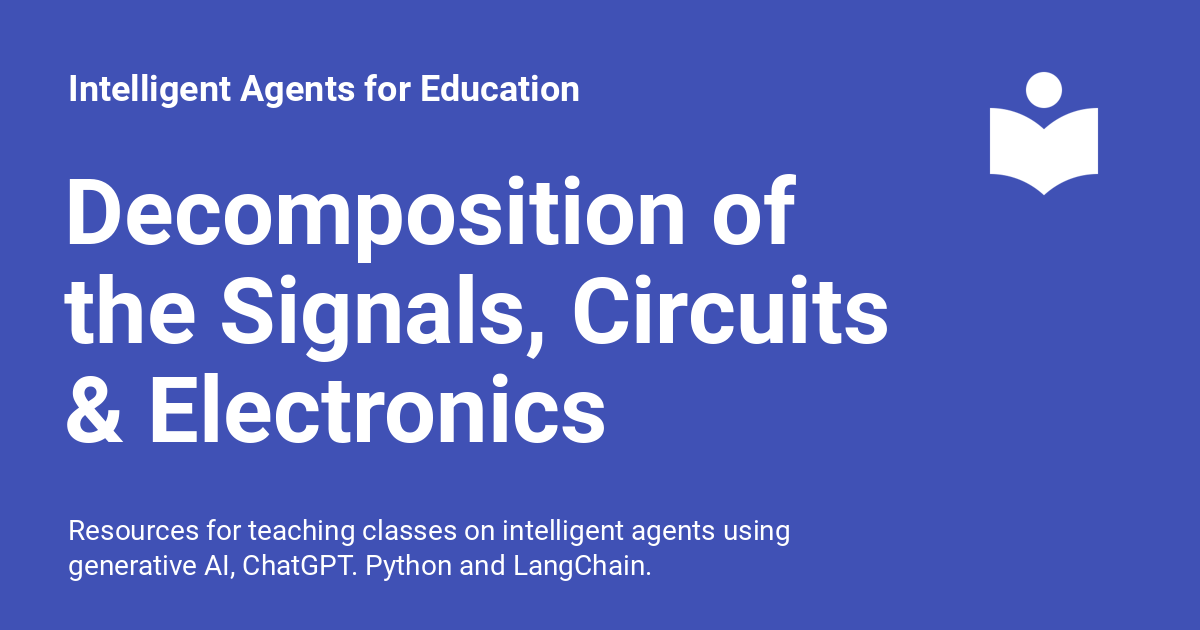
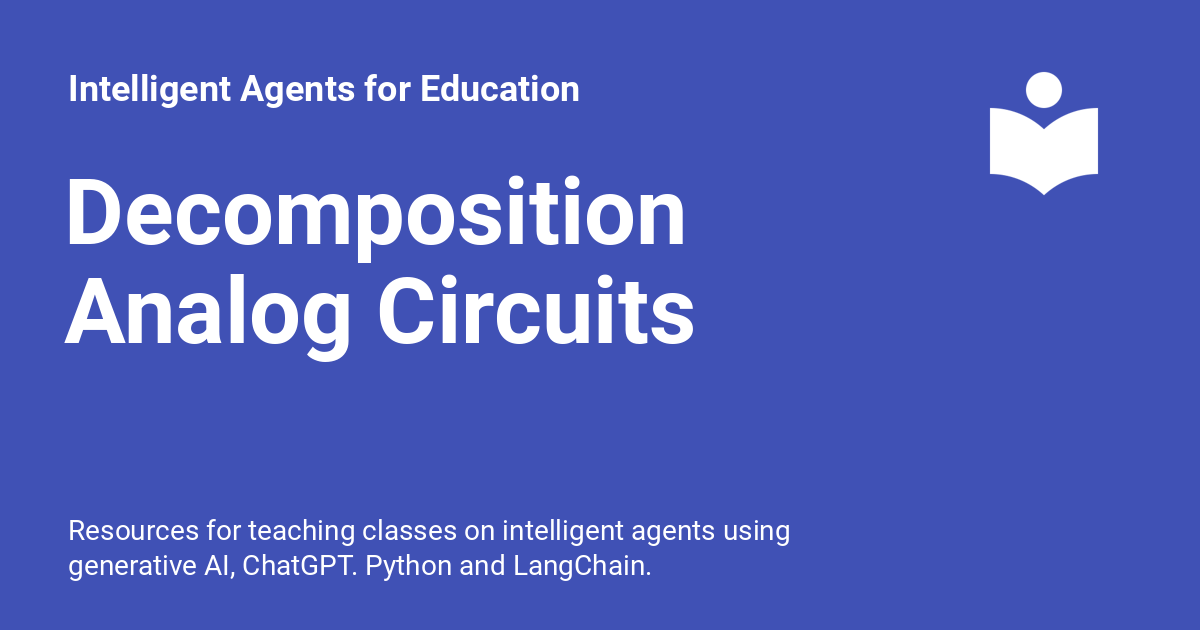
Deployed 2ec733f with MkDocs version: 1.5.3

Changed region(s): [[0.0308, 0.4222, 0.74, 0.573], [0.0308, 0.573, 0.5242, 0.7238], [0.5858, 0.2714, 0.6783, 0.3921]]

diff --git a/assignments/02a-decomposition-analog/index.html b/assignments/02a-decomposition-analog/index.html
@@ -15,6 +15,10 @@
         <link rel="canonical" href="https://dmccreary.github.io/learn-langchain/assignments/02a-decomposition-analog/">
       
       
+        <link rel="prev" href="../02-decomposition/">
+      
+      
+        <link rel="next" href="../../lessons/">
       
       
       <link rel="icon" href="../../assets/images/favicon.png">
@@ -22,7 +26,7 @@
     
     
       
-        <title>Decomposition of the Signals, Circuits & Electronics Course - Intelligent Agents for Education</title>
+        <title>Decomposition Analog Circuits - Intelligent Agents for Education</title>
       
     
     
@@ -64,7 +68,7 @@
       
         <meta  property="og:type"  content="website" >
       
-        <meta  property="og:title"  content="Decomposition of the Signals, Circuits & Electronics Course - Intelligent Agents for Education" >
+        <meta  property="og:title"  content="Decomposition Analog Circuits - Intelligent Agents for Education" >
       
         <meta  property="og:description"  content="Resources for teaching classes on intelligent agents using generative AI, ChatGPT. Python and LangChain." >
       
@@ -80,7 +84,7 @@
       
         <meta  name="twitter:card"  content="summary_large_image" >
       
-        <meta  name="twitter:title"  content="Decomposition of the Signals, Circuits & Electronics Course - Intelligent Agents for Education" >
+        <meta  name="twitter:title"  content="Decomposition Analog Circuits - Intelligent Agents for Education" >
       
         <meta  name="twitter:description"  content="Resources for teaching classes on intelligent agents using generative AI, ChatGPT. Python and LangChain." >
       
@@ -139,7 +143,7 @@
         <div class="md-header__topic" data-md-component="header-topic">
           <span class="md-ellipsis">
             
-              Decomposition of the Signals, Circuits & Electronics Course
+              Decomposition Analog Circuits
             
           </span>
         </div>
@@ -339,6 +343,8 @@
       
   
   
+    
+  
   
     
     
@@ -355,28 +361,165 @@
       
     
     
-      
-      
-    
-    <li class="md-nav__item md-nav__item--pruned md-nav__item--nested">
+    <li class="md-nav__item md-nav__item--active md-nav__item--nested">
       
         
-  
-  
-    <a href="../" class="md-nav__link">
-      
+        
+        
+        
+        <input class="md-nav__toggle md-toggle " type="checkbox" id="__nav_4" checked>
+        
+          
+          
+          <div class="md-nav__link md-nav__container">
+            <a href="../" class="md-nav__link ">
+              
   
   <span class="md-ellipsis">
     Assignments
   </span>
   
 
-      
-        <span class="md-nav__icon md-icon"></span>
-      
-    </a>
+            </a>
+            
+              <label class="md-nav__link " for="__nav_4">
+                <span class="md-nav__icon md-icon"></span>
+              </label>
+            
+          </div>
+        
+        <nav class="md-nav" data-md-level="1" aria-labelledby="__nav_4_label" aria-expanded="true">
+          <label class="md-nav__title" for="__nav_4">
+            <span class="md-nav__icon md-icon"></span>
+            Assignments
+          </label>
+          <ul class="md-nav__list" data-md-scrollfix>
+            
+              
+            
+              
+                
+  
+  
+  
+    <li class="md-nav__item">
+      <a href="../01-bouncing-ball/" class="md-nav__link">
+        
+  
+  <span class="md-ellipsis">
+    Bouncing Ball
+  </span>
   
 
+      </a>
+    </li>
+  
+
+              
+            
+              
+                
+  
+  
+  
+    <li class="md-nav__item">
+      <a href="../02-decomposition/" class="md-nav__link">
+        
+  
+  <span class="md-ellipsis">
+    Decomposition
+  </span>
+  
+
+      </a>
+    </li>
+  
+
+              
+            
+              
+                
+  
+  
+    
+  
+  
+    <li class="md-nav__item md-nav__item--active">
+      
+      <input class="md-nav__toggle md-toggle" type="checkbox" id="__toc">
+      
+      
+        
+      
+      
+        <label class="md-nav__link md-nav__link--active" for="__toc">
+          
+  
+  <span class="md-ellipsis">
+    Decomposition Analog Circuits
+  </span>
+  
+
+          <span class="md-nav__icon md-icon"></span>
+        </label>
+      
+      <a href="./" class="md-nav__link md-nav__link--active">
+        
+  
+  <span class="md-ellipsis">
+    Decomposition Analog Circuits
+  </span>
+  
+
+      </a>
+      
+        
+
+<nav class="md-nav md-nav--secondary" aria-label="Table of contents">
+  
+  
+  
+    
+  
+  
+    <label class="md-nav__title" for="__toc">
+      <span class="md-nav__icon md-icon"></span>
+      Table of contents
+    </label>
+    <ul class="md-nav__list" data-md-component="toc" data-md-scrollfix>
+      
+        <li class="md-nav__item">
+  <a href="#sample-prompt" class="md-nav__link">
+    Sample Prompt
+  </a>
+  
+</li>
+      
+        <li class="md-nav__item">
+  <a href="#response" class="md-nav__link">
+    Response
+  </a>
+  
+</li>
+      
+        <li class="md-nav__item">
+  <a href="#simulation" class="md-nav__link">
+    Simulation
+  </a>
+  
+</li>
+      
+    </ul>
+  
+</nav>
+      
+    </li>
+  
+
+              
+            
+          </ul>
+        </nav>
       
     </li>
   
@@ -755,6 +898,44 @@ interactive simulation to explain the concept.</p>
       
         <footer class="md-footer">
   
+    
+      
+      <nav class="md-footer__inner md-grid" aria-label="Footer" >
+        
+          
+          <a href="../02-decomposition/" class="md-footer__link md-footer__link--prev" aria-label="Previous: Decomposition" rel="prev">
+            <div class="md-footer__button md-icon">
+              
+              <svg xmlns="http://www.w3.org/2000/svg" viewBox="0 0 24 24"><path d="M20 11v2H8l5.5 5.5-1.42 1.42L4.16 12l7.92-7.92L13.5 5.5 8 11h12Z"/></svg>
+            </div>
+            <div class="md-footer__title">
+              <span class="md-footer__direction">
+                Previous
+              </span>
+              <div class="md-ellipsis">
+                Decomposition
+              </div>
+            </div>
+          </a>
+        
+        
+          
+          <a href="../../lessons/" class="md-footer__link md-footer__link--next" aria-label="Next: Introduction" rel="next">
+            <div class="md-footer__title">
+              <span class="md-footer__direction">
+                Next
+              </span>
+              <div class="md-ellipsis">
+                Introduction
+              </div>
+            </div>
+            <div class="md-footer__button md-icon">
+              
+              <svg xmlns="http://www.w3.org/2000/svg" viewBox="0 0 24 24"><path d="M4 11v2h12l-5.5 5.5 1.42 1.42L19.84 12l-7.92-7.92L10.5 5.5 16 11H4Z"/></svg>
+            </div>
+          </a>
+        
+      </nav>
     
   
   <div class="md-footer-meta md-typeset">

diff --git a/assignments/02-decomposition/index.html b/assignments/02-decomposition/index.html
@@ -18,7 +18,7 @@
         <link rel="prev" href="../01-bouncing-ball/">
       
       
-        <link rel="next" href="../../lessons/">
+        <link rel="next" href="../02a-decomposition-analog/">
       
       
       <link rel="icon" href="../../assets/images/favicon.png">
@@ -524,7 +524,7 @@
   
   
     <li class="md-nav__item">
-      <a href="../02a-decomposition-analog" class="md-nav__link">
+      <a href="../02a-decomposition-analog/" class="md-nav__link">
         
   
   <span class="md-ellipsis">
@@ -992,13 +992,13 @@ prepared to demo the program using the p5.js editor.</p>
         
         
           
-          <a href="../../lessons/" class="md-footer__link md-footer__link--next" aria-label="Next: Introduction" rel="next">
+          <a href="../02a-decomposition-analog/" class="md-footer__link md-footer__link--next" aria-label="Next: Decomposition Analog Circuits" rel="next">
             <div class="md-footer__title">
               <span class="md-footer__direction">
                 Next
               </span>
               <div class="md-ellipsis">
-                Introduction
+                Decomposition Analog Circuits
               </div>
             </div>
             <div class="md-footer__button md-icon">

diff --git a/lessons/index.html b/lessons/index.html
@@ -15,7 +15,7 @@
         <link rel="canonical" href="https://dmccreary.github.io/learn-langchain/lessons/">
       
       
-        <link rel="prev" href="../assignments/02-decomposition/">
+        <link rel="prev" href="../assignments/02a-decomposition-analog/">
       
       
         <link rel="next" href="01-hello-world/">
@@ -777,7 +777,7 @@
       <nav class="md-footer__inner md-grid" aria-label="Footer" >
         
           
-          <a href="../assignments/02-decomposition/" class="md-footer__link md-footer__link--prev" aria-label="Previous: Decomposition" rel="prev">
+          <a href="../assignments/02a-decomposition-analog/" class="md-footer__link md-footer__link--prev" aria-label="Previous: Decomposition Analog Circuits" rel="prev">
             <div class="md-footer__button md-icon">
               
               <svg xmlns="http://www.w3.org/2000/svg" viewBox="0 0 24 24"><path d="M20 11v2H8l5.5 5.5-1.42 1.42L4.16 12l7.92-7.92L13.5 5.5 8 11h12Z"/></svg>
@@ -787,7 +787,7 @@
                 Previous
               </span>
               <div class="md-ellipsis">
-                Decomposition
+                Decomposition Analog Circuits
               </div>
             </div>
           </a>

diff --git a/assignments/01-bouncing-ball/index.html b/assignments/01-bouncing-ball/index.html
@@ -453,7 +453,7 @@
   
   
     <li class="md-nav__item">
-      <a href="../02a-decomposition-analog" class="md-nav__link">
+      <a href="../02a-decomposition-analog/" class="md-nav__link">
         
   
   <span class="md-ellipsis">

diff --git a/assignments/index.html b/assignments/index.html
@@ -443,7 +443,7 @@
   
   
     <li class="md-nav__item">
-      <a href="02a-decomposition-analog" class="md-nav__link">
+      <a href="02a-decomposition-analog/" class="md-nav__link">
         
   
   <span class="md-ellipsis">
